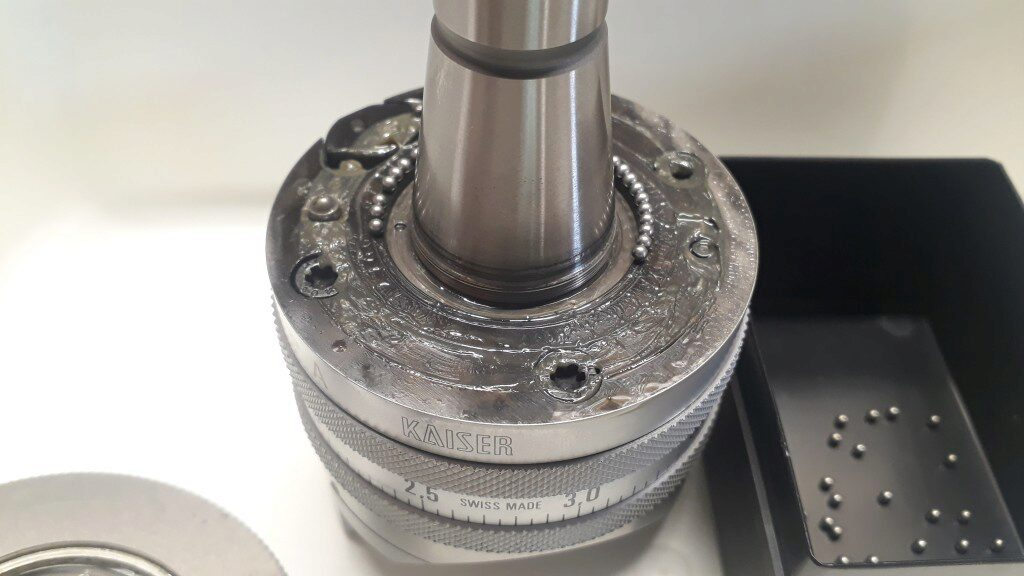
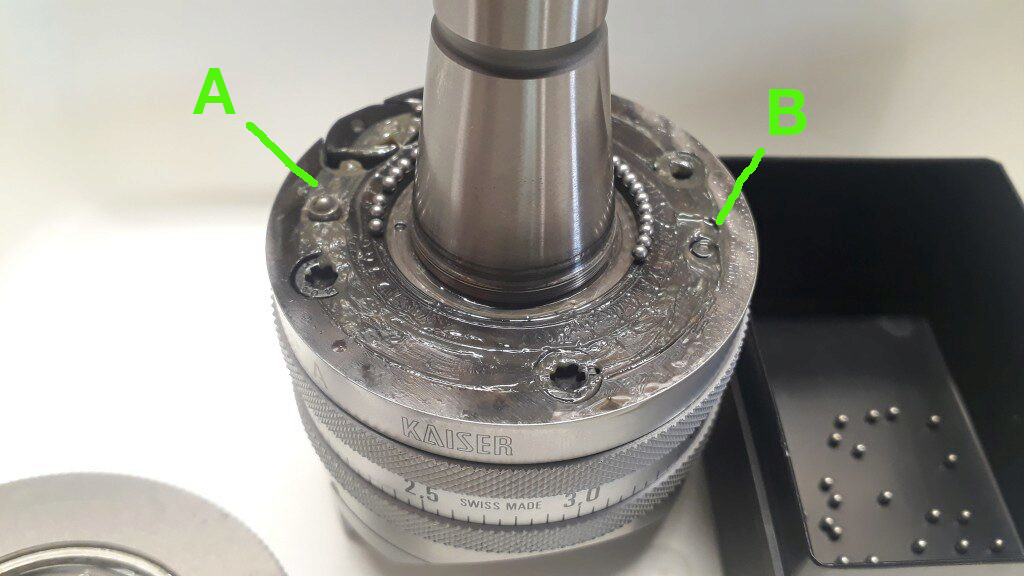
Més info prl post

diff --git a/content/posts/reparacio-kaiser-piccolo/index.md b/content/posts/reparacio-kaiser-piccolo/index.md
@@ -20,6 +20,7 @@ keywords:
 draft: true
 ---
 
+
 The Kaiser Piccolo is exquisitely made small boring head with boring
 and automatic facing functions. I got a ISO30 one in a very nice
 condition together with a bunch of tooling. When tested it performed
@@ -28,6 +29,8 @@ very fine but I couldn't switch easily between facing and boring
 «alésage»). It needs to be serviced to cope with this jam.
 
 <!--more-->
+
+{{< toc >}}
 
 ## The Kaiser Piccolo boring head
 
@@ -52,16 +55,213 @@ case it mounts an ISO 30 shank.
 
 ## The Boring Head P-A Switch is Locked 
 
+My boring head looks like the P-A switching ring is locked into A
+position. That's suprising because the head is nicely used and seems
+not abused at all. However, after fighting with the ring during days
+the result is clear: the ring is locked.
 
-
+The head should be serviced to solve this lock.
 
 ## How to Take Kaiser Piccolo Apart?
 
+The first challenge is to take apart the head. After a search in some
+forums and a fruitful talk with a XX, the mistery was discovered: head
+should be taken apart by untighting a special flat nut that is on top
+of the head.
+
+First, then, the ISO 30 shank should be removed from the STP
+taper. This is easy to do by just tightening the ISO 30 shank in the
+vice and unscrewing all the head. It's useful to slightly heat the ISO
+30 shank. Take an adjusting wrench of a nice size and adjust it to the
+head slide. Unscrew counterclockwise. It is tight, but a large
+enough wrench will do the job.
+
+Under the ISO 30 adaptor will appear a flat nut with three small
+holes. This is the nut that frees all the boring head interior
+parts. The holes are filled with a pin that retain the nut on the part
+below. These pins should be completelly drilled and removed. You will
+need an extralarge drill or an home made extension.
+
+{{< figure src="forat-fiador-1.jpg"
+	link="forat-fiador-1.jpg"
+	loading="lazy"
+	title="Drilling the boring head nut pins" >}}
+
+The boring diameter is 1,5mm and should be drilled about 6mm
+depth. Sometimes, a smaller diameter drill of about 1,25mm could be
+useful too. The objective is to completely remove the pins. You will
+feel when the drill impacts on the hard part in the bottom. Be gentle
+with this and try not to mark the bottom part with the drill.
+
+{{< figure src="forat-fiador-2.jpg"
+	loading="lazy"
+	title="Detail of a pin drilling process" >}}
+
+{{< figure src="forat-allargador.jpg"
+	loading="lazy"
+	title="Working a drill extension in the milling machine" >}}
+
+
 ## Make the Special Pin Wrench
+
+Once pins are removed, you will need a special wrench to unscrew it. I
+made one from an aluminium ring and some cuts of clockmaker blue steel
+(tamponstahl).
+
+First step is to measure the precise holes position. If you assume
+that they are in the same circle and that all of them are at an angle
+of 120 degrees, you only need to measure the distance between
+holes. Using a couple of drills as reference pins the distance could
+be measured with a caliper or a micrometer. After that, a bit of
+trigonometry will do the job.
+
+{{< figure src="mesura-cc.jpg"
+	loading="lazy"
+	title="Measuring the distance between holes using drills" >}}
+
+The result is that the centers of the pin holes are on a 30mm circle
+centered on the head shaft. With this in mind, I turned a kind of
+thick ring of aluminium. On this, three 1,5mm where drilled
+through using a divider on the Schaublin 13.
+
+{{< figure src="centrant-clau-2.jpg"
+	loading="lazy"
+	title="Align the part center using the Diacator alignment gauge" >}}
+	
+{{< figure src="puntejant.jpg"
+	loading="lazy"
+	title="Spot the drilling points of the wrench" >}}
+	
+{{< figure src="foradant.jpg"
+	loading="lazy"
+	title="Drill the wrench pin holes" >}}
+	
+Once the ring is drilled, cut some long pins of clockmaker's blue
+steel of 1,5mm. This kind of small steel bars used by clockmakers is
+of good quality, easy to find in small batches and hardened at an
+interesting level: it is hard but can be worked well enough. Pins need
+to protrude the ring about 4mm. They could be fixed in the ring with a
+bit of cyanoacrylate glue.
+
+{{< figure src="clau-1.jpg"
+	loading="lazy"
+	title="The special wrench for Kaiser Piccolo (nut side)" >}}
+
+If the wrench fits the nut, drill on the oposite side some 4mm holes
+to be turned with a standard pin wrench. Next picture shows
+it. Remember that pin wrench should then't be in contact with the STP
+cone of the head.
+
+{{< figure src="clau-2.jpg"
+	loading="lazy"
+	title="The special wrench for Kaiser Piccolo (top side)" >}}
+
 
 ## Be Carefull With the Bearing Balls
 
+Now the Kaiser Piccolo head can be taken apart. It is usefull to mark
+the original position of the nut to be tightened appropiately when
+mounted again. Then, just grip it on the vice and unscrew slighty the
+top nut until can be turned by hand. Do not unscrew it completely!
+
+Inside the head there are a couple of ball bearings that will fall
+when you unscrew it. Thus, it's very interesting to work on the head
+maintaining it in a plastic container that voids losing balls. With
+this care, just unscrew the nut and the head rings will be freeded and
+the top bearing will appear. Preserve the steel balls in a secure
+container using tweezers. There are 54 balls of 2mm.
+
+{{< figure src="femella-superior.jpg"
+	loading="lazy"
+	title="The unscrewed nut and the top bearing" >}}
+
+Once the top ring has been pulled apart, the top part of the second
+ring will appear. This is the ring that can be holded with a stick
+when working. Two distinct balls will appear. Both measure 2,5mm and
+are a bit greather than the bearing ones. The first one is a sliding
+ball on top of the clutch shaft (marked A) in the next figure. The
+second one is a spring and ball plunger that retains the top ring in a
+specific position (marked B).
+
+{{< figure src="rodament-superior.jpg"
+	loading="lazy"
+	title="Top of second ring" 
+	caption=`Marked as (A) there is the clutch shaft. Marked as (B) 
+	         is the top ring plunger spring.` >}}
+
+The second ring is easy to pull apart. Just pull it through the
+shank. You will discover the internal gears that move the slide in
+automatic mode. On the bottom of this ring there is the bottom ball
+bearing, be careful. This bearing is composed by 90 balls of 2mm.
+
+{{< figure src="anell-pinyons.jpg"
+	loading="lazy"
+	title="Bottom of the second ring" >}}
+
+{{< figure src="rodament-inferior.jpg"
+	loading="lazy"
+	title="The head after pulling the second ring" 
+	caption=`In the left, there is the second ring. In the right you
+	can see the bottom bearing and the two central gears. The top one
+	is attached to the shaft by a small key. Note the small hole that
+	is used to lock the top nut by inserting the pins. The bottom
+	gear, barely visible under the top gear, is attached to the third
+	ring and turns freely. `>}}
+	
+If you pull with care the third ring, you will discover the interior
+gear that rotates the main gear of the head. The main gear of the head
+displaces the slide. Look at the pictures below.
+
+{{< figure src="anell-inferior.jpg"
+	loading="lazy"
+	title="The third ring"
+	caption=`In the interior you can apreciate an internal gear that
+	engages the main gear. Main gear can be barely seen in top right.`>}}
+
+{{< figure src="conjunt.jpg"
+	loading="lazy"
+	title="The Kaiser Piccolo fully dismantled" >}}
+
+{{< figure src="engranatge-carro.jpg"
+	loading="lazy"
+	title="A detail of the main gear" 
+	caption=`This gear is moved by the third ring and it moves the
+	head slide.` >}}
+	
+{{< figure src="guia-portaeines.jpg"
+	loading="lazy"
+	title="The main gear where it engages the head slide" >}}
+
+{{< figure src="portaeines.jpg"
+	loading="lazy"
+	title="The hidden face of the slide where the main gear engages" 
+	caption=`Note that the main gear is composed by distinct diameter
+	gears in the same assembly. Only the minor lateral gears move the
+	slide. The major gear is moved by the third ring.`
+	>}}
+
 ## Solving the Kaiser Piccolo Jam
+
+Finally, it is time to solve the boring head jam. After taking apart
+all the head I saw no problems that could explain the jam. I mounted
+it again and the head became locked again. I did the work of
+assembling and disassembling several times with the same result. At
+the end, I deduced that the locking effect should be produced by the
+plunger mechanism. The plunger ball has a diameter of 2,5mm while the
+spring hole measures 3,1mm. Seems to me the ball is displaced to a
+side of the hole when turning the top ring and it gets trapped in some
+way. That is weird because the ball seems to be the original one. I
+tested with a 3mm ball and all worked smooth as silk!
+
+Remains the question about which is the right diameter for the plunger
+ball and, if 2,5mm is wrong, why is there a 2,5mm ball? Anyway, now it
+is working as expected.
+
+All the rings and bearings were assembled again and the nut tightened
+to the mark we made before taking it apart. Then, a single pin is
+introduced in the single locking hole. The pin is made of brass to
+make easy drilling it again if needed.
+
 
 ## How Does The Head Work
 
